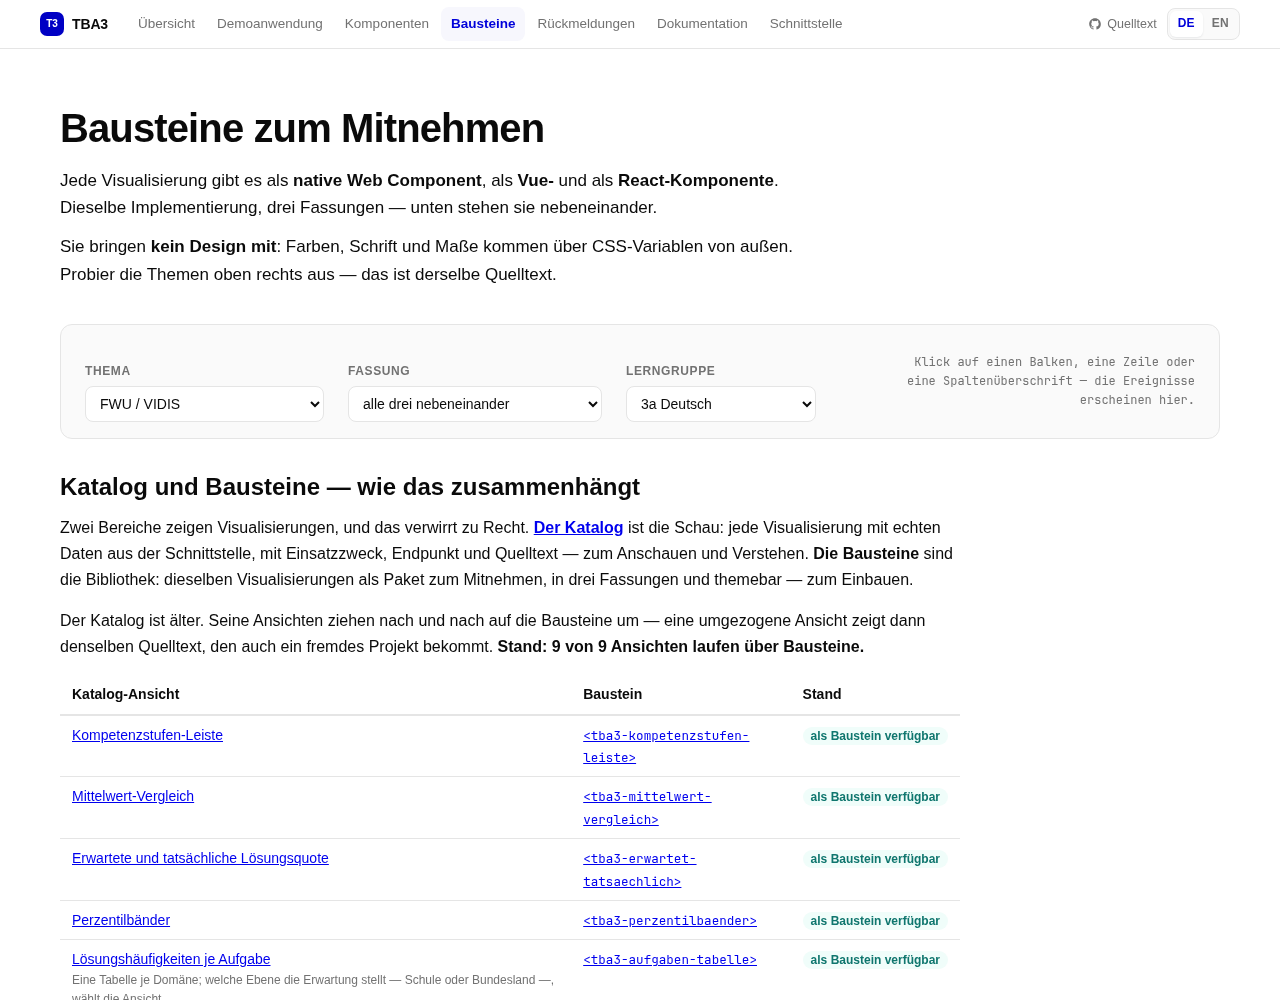
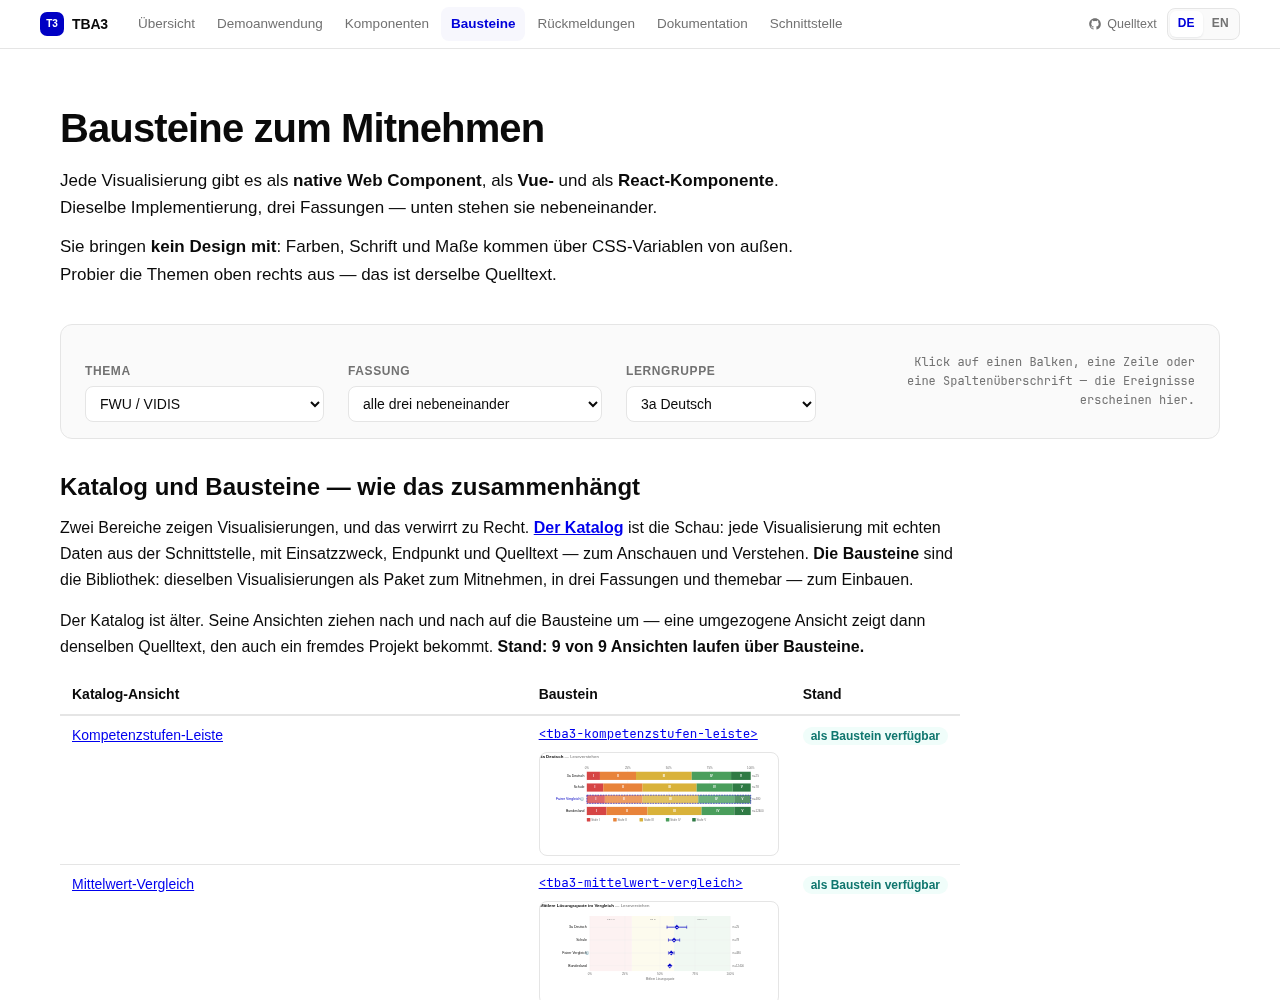
feat(bausteine): die Zuordnung zeigt jeden Baustein als Vorschau
Die Tabelle „Katalog ↔ Bausteine" und die Liste darunter nannten
Elementnamen — `<tba3-perzentilbaender>` sagt aber niemandem, was der
Baustein zeigt, und gerade die drei ohne Katalog-Ansicht hatten damit gar
kein Bild. Wer wissen wollte, worum es geht, musste zur Seite hinunter
scrollen und den Anker suchen.

Jede Zeile trägt jetzt dasselbe Element in klein: dieselben Daten wie
unten, über `fuellen()` mit versorgt, damit ein Wechsel von Lerngruppe
oder Thema auch die Vorschauen mitnimmt. Sie sind `aria-hidden` und nicht
bedienbar — für Vorlesesoftware wären sie eine Dopplung, und anfassen soll
man den Baustein weiter unten, wo er vollständig steht und Ereignisse
meldet.

Der Kasten ist 240 Pixel breit und zeigt 820 Pixel Inhalt: die vier älteren
Bausteine haben eine feste Breite und schrumpfen nicht, sondern scrollen —
bei 560 Pixeln sah man von den Perzentilbändern nur das linke Fünftel.

`katalog-bausteine.spec.js` zählt die Vorschauen und prüft, dass jede
wirklich gezeichnet hat; eine leere Vorschau wäre schlimmer als keine.
Gezählt wird dabei über `document.querySelectorAll` statt über einen
Playwright-Locator: dessen CSS-Selektoren durchdringen offene Shadow Roots,
und `#zuordnung tbody tr` fand plötzlich 22 Zeilen — neun in der Tabelle
und dreizehn in den Schatten der Vorschauen.

diff --git a/apps/portal/bausteine/index.html b/apps/portal/bausteine/index.html
@@ -125,12 +125,36 @@
     .marke-offen { background: var(--farbe-warnung); color: var(--farbe-warnung-text); }
     .nur-baustein { list-style: none; margin: var(--abstand-md) 0 0; padding: 0; }
     .nur-baustein li {
-      padding: var(--abstand-xs) 0; border-bottom: 1px solid var(--farbe-linie);
+      display: flex; gap: var(--abstand-md); align-items: flex-start;
+      padding: var(--abstand-sm) 0; border-bottom: 1px solid var(--farbe-linie);
       font-size: var(--text-sm);
     }
     .nur-baustein li:last-child { border-bottom: 0; }
     .nur-baustein .grund {
       display: block; color: var(--farbe-text-gedaempft); font-size: var(--text-xs);
+    }
+
+    /* ── Vorschau ────────────────────────────────────────────
+       Ein Elementname sagt nicht, was der Baustein zeigt. Die Vorschau ist
+       dasselbe Element mit denselben Daten wie unten, nur verkleinert und
+       nicht bedienbar: sie soll erkennen lassen, worum es geht, und dann aus
+       dem Weg gehen. Wer sie anfassen will, folgt dem Link daneben. */
+    .vorschau {
+      flex: none; width: 240px; height: 104px; overflow: hidden;
+      border: 1px solid var(--farbe-linie); border-radius: var(--radius-m);
+      background: var(--farbe-grund); pointer-events: none;
+    }
+    /* 820px, weil die älteren Bausteine eine feste Breite haben und in einem
+       schmaleren Kasten nicht schrumpfen, sondern scrollen — die Vorschau
+       zeigte davon sonst nur das linke Fünftel. Der Faktor ist 240/820. */
+    .vorschau > * {
+      display: block; width: 820px;
+      transform: scale(0.2927); transform-origin: top left;
+    }
+    .zuordnung-baustein { display: flex; flex-direction: column; gap: var(--abstand-xs); }
+    @media (max-width: 720px) {
+      .nur-baustein li { flex-direction: column; }
+      .vorschau { width: 100%; max-width: 280px; }
     }
 
     /* ── Themen zum Durchprobieren ──────────────────────────── */
@@ -364,7 +388,10 @@
         a.href = '#' + z.baustein;
         a.className = 'mono';
         a.textContent = '<' + PRAEFIX + z.baustein + '>';
-        baustein.append(a);
+        const spalte = document.createElement('div');
+        spalte.className = 'zuordnung-baustein';
+        spalte.append(a, vorschau(z.baustein));
+        baustein.append(spalte);
       } else {
         baustein.textContent = '—';
       }
@@ -384,6 +411,7 @@
     const liste = document.getElementById('nur-baustein');
     for (const n of NUR_BAUSTEIN) {
       const li = document.createElement('li');
+      const text = document.createElement('div');
       const a = document.createElement('a');
       a.href = '#' + n.baustein;
       a.className = 'mono';
@@ -391,7 +419,8 @@
       const grund = document.createElement('span');
       grund.className = 'grund';
       grund.textContent = n.grund;
-      li.append(a, ' — ' + n.anzeige, grund);
+      text.append(a, ' — ' + n.anzeige, grund);
+      li.append(vorschau(n.baustein), text);
       liste.append(li);
     }
   }
@@ -446,6 +475,25 @@
     return sektion;
   }
 
+  /**
+   * Eine Vorschau des Bausteins: dasselbe Element, dieselben Daten, nur klein.
+   *
+   * Die Funktion steht als Deklaration, damit die Zuordnungstabelle sie oben
+   * schon aufrufen kann. Die Daten setzt `fuellen()` — es sammelt die
+   * Vorschauen über die Klasse ein, statt eine zweite Liste zu führen, die
+   * beim nächsten Baustein wieder vergessen würde.
+   */
+  function vorschau(name) {
+    const kasten = document.createElement('div');
+    kasten.className = 'vorschau';
+    kasten.dataset.vorschau = name;
+    // Für Vorlesesoftware ist die Vorschau eine Dopplung: derselbe Baustein
+    // steht weiter unten vollständig und bedienbar.
+    kasten.setAttribute('aria-hidden', 'true');
+    kasten.append(document.createElement(PRAEFIX + name));
+    return kasten;
+  }
+
   function chip(text) {
     const span = document.createElement('span');
     span.className = 'code-chip mono';
@@ -487,6 +535,10 @@
     const satz = daten();
     for (const { el, bauplan } of elemente) {
       el.props = satz[bauplan.name] ?? {};
+    }
+    for (const kasten of document.querySelectorAll('.vorschau')) {
+      const el = kasten.firstElementChild;
+      if (el) el.props = satz[kasten.dataset.vorschau] ?? {};
     }
   }
 

diff --git a/e2e/katalog-bausteine.spec.js b/e2e/katalog-bausteine.spec.js
@@ -26,6 +26,17 @@ const ANSICHTEN = [
   ['/bista-distribution', 'tba3-bista-verteilung'],
 ];
 
+/**
+ * Zählt im Licht-DOM der Seite.
+ *
+ * Playwrights CSS-Selektoren durchdringen offene Shadow Roots: `#zuordnung
+ * tbody tr` fände auch die Zeilen, die eine Vorschau in ihrem eigenen Schatten
+ * zeichnet. `document.querySelectorAll` tut das nicht — und hier ist genau das
+ * gemeint.
+ */
+const anzahl = (page, auswahl) =>
+  page.evaluate((a) => document.querySelectorAll(a).length, auswahl);
+
 /** Hat das Element wirklich gezeichnet — oder steht nur die Hülle da? */
 const gezeichnet = (page, tag) =>
   page.evaluate((t) => {
@@ -63,15 +74,29 @@ test.describe('Bausteine — der Demonstrator', () => {
     const fehler = [];
     page.on('pageerror', (e) => fehler.push(e.message));
 
-    // Ohne Schrägstrich am Ende: genau so steht der Link im Portal, und genau
-    // so lösten die relativen Modulimporte einmal ins Leere.
+    // Dass die Seite unter beiden Formen der Adresse überhaupt lädt, prüft
+    // `bausteine.spec.js` nebenan; hier geht es um ihren Inhalt.
     await page.goto('/bausteine?lang=de');
 
-    await expect(page.locator('section.baustein')).toHaveCount(12);
-    await expect(page.locator('#zuordnung tbody tr')).toHaveCount(9);
-    await expect(page.locator('#nur-baustein li')).toHaveCount(3);
+    await expect.poll(() => anzahl(page, 'section.baustein')).toBe(12);
+    await expect.poll(() => anzahl(page, '#zuordnung tbody tr')).toBe(9);
+    await expect.poll(() => anzahl(page, '#nur-baustein li')).toBe(3);
     await expect(page.locator('#stand')).toContainText('9 von 9');
     expect(fehler).toEqual([]);
+  });
+
+  test('zeigt zu jedem Baustein eine Vorschau, die auch etwas zeigt', async ({ page }) => {
+    await page.goto('/bausteine?lang=de');
+
+    // Die Zuordnungstabelle und die Liste darunter nennen sonst nur
+    // Elementnamen. Eine Vorschau, die leer bleibt, wäre schlimmer als keine.
+    await expect.poll(() => anzahl(page, '.vorschau')).toBe(12);
+
+    const gezeichnet = await page.evaluate(() =>
+      [...document.querySelectorAll('.vorschau')]
+        .filter((k) => k.firstElementChild?.shadowRoot?.children.length > 1).length,
+    );
+    expect(gezeichnet).toBe(12);
   });
 
   test('zeigt jeden Baustein in allen drei Fassungen', async ({ page }) => {

diff --git a/docs/CHANGELOG.md b/docs/CHANGELOG.md
@@ -18,6 +18,10 @@ The format is based on [Keep a Changelog](https://keepachangelog.com/en/1.0.0/).
   `NUR_BAUSTEIN` in `zuordnung.js` hält mit Grund fest, was ohne Ansicht
   bleibt, und drei Tests halten Zuordnung, Beispieldaten und die drei Fassungen
   beieinander.
+- **Vorschauen in der Zuordnung auf `/bausteine`**: jede Zeile der Tabelle und
+  jeder Eintrag der Liste darunter zeigt den Baustein in klein — dieselben
+  Daten wie unten, nicht bedienbar und für Vorlesesoftware ausgeblendet. Ein
+  Elementname allein sagt niemandem, was der Baustein zeigt.
 - **E2E-Tests für die Demoanwendung** (Playwright, `npm run e2e`): 47 Tests
   über Reiter und Deeplinks, Filter — jeweils gegen die Abfrage, die dabei
   herauskommt —, Schülerliste mit Datenblatt und eigenen Gruppen, Materialien
@@ -72,6 +76,16 @@ The format is based on [Keep a Changelog](https://keepachangelog.com/en/1.0.0/).
   Perzentilbänder), haben jetzt Platz.
 
 ### Fixed
+- **Die Perzentilbänder waren schwarz.** `var(--tba3-_band))` — eine
+  schließende Klammer zu viel in vier Konstanten und zwei Aufrufen. Ein
+  ungültiger Farbwert ist in SVG nicht leer, sondern schwarz; derselbe
+  Tippfehler hatte in der Aufgaben-Tabelle still das Zeilen-Hover
+  ausgeschaltet. Ein Test zählt jetzt die Klammern in jedem Wert, der `var(`
+  enthält.
+- **`/katalog#/percentile-band` war eine weiße Seite.** Ein Endpunkt-Eintrag
+  trug `description` statt `pfad`; `t(undefined)` warf, und Vue riss das Setup
+  der Ansicht ab. `t()` gibt bei fehlendem Pfad jetzt einen leeren Text zurück,
+  statt eine ganze Ansicht mitzunehmen.
 - **`/bausteine` ohne abschließenden Schrägstrich lud nichts.** Die Seite
   importierte `./demodaten.js` und `./zuordnung.js` relativ; unter `/bausteine`
   löst der Browser das gegen `/` auf, beide Module kamen als 404 zurück — die
